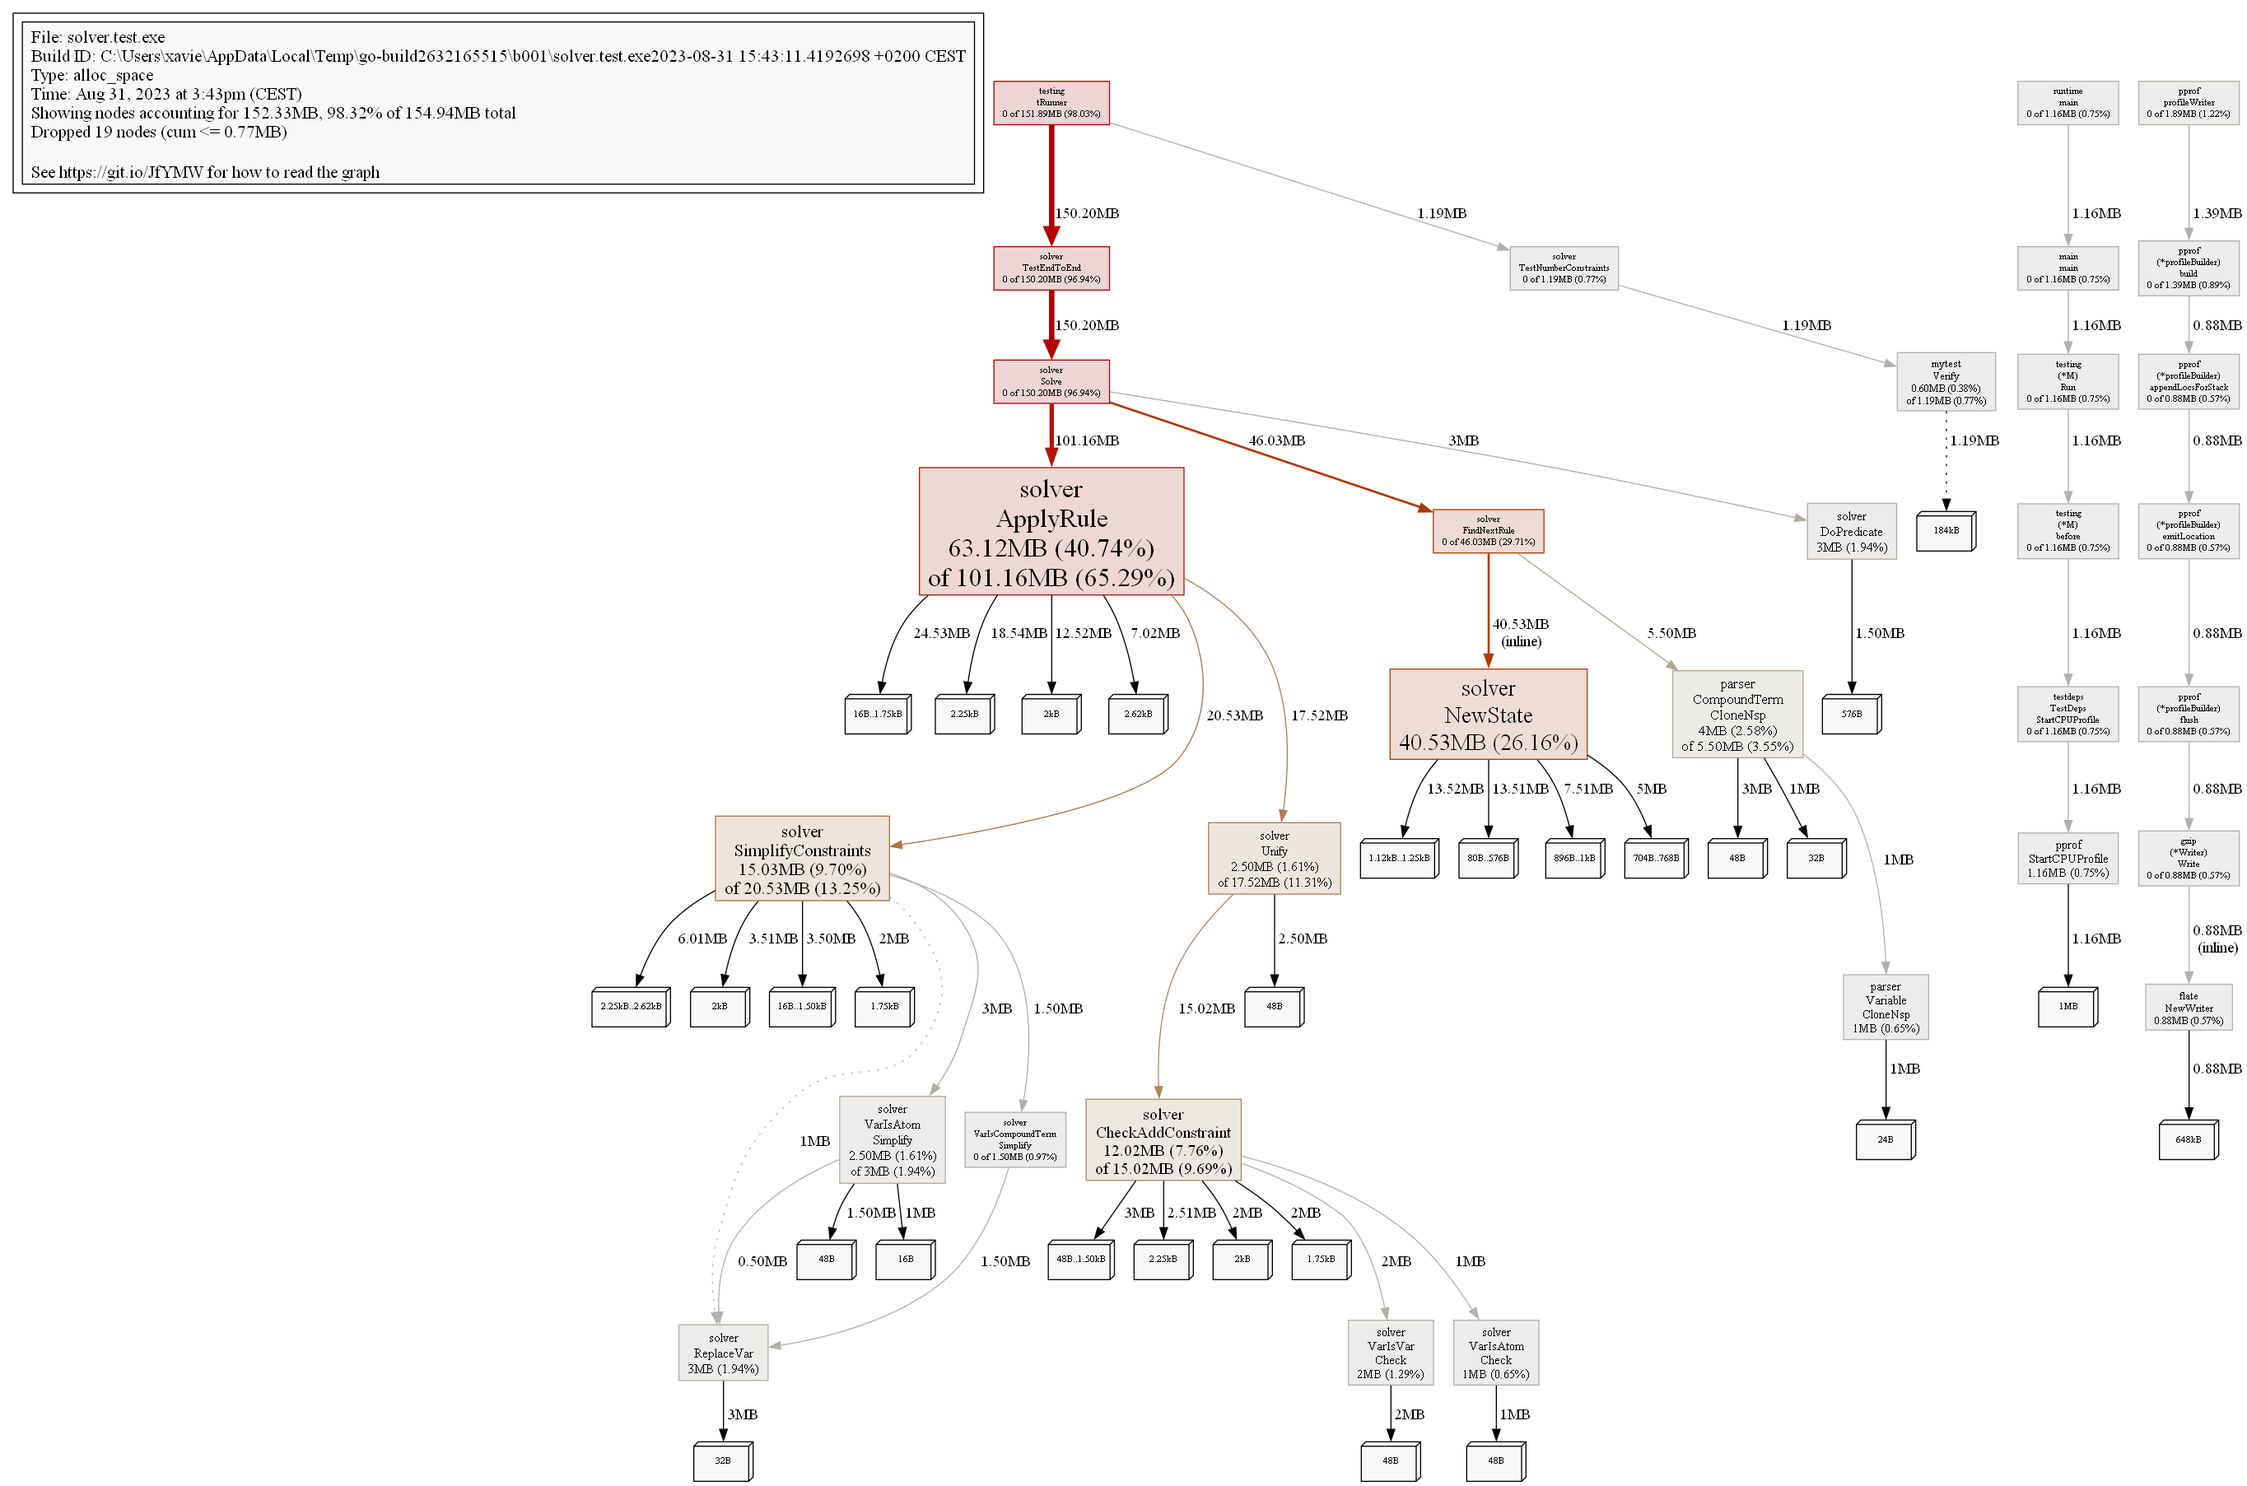
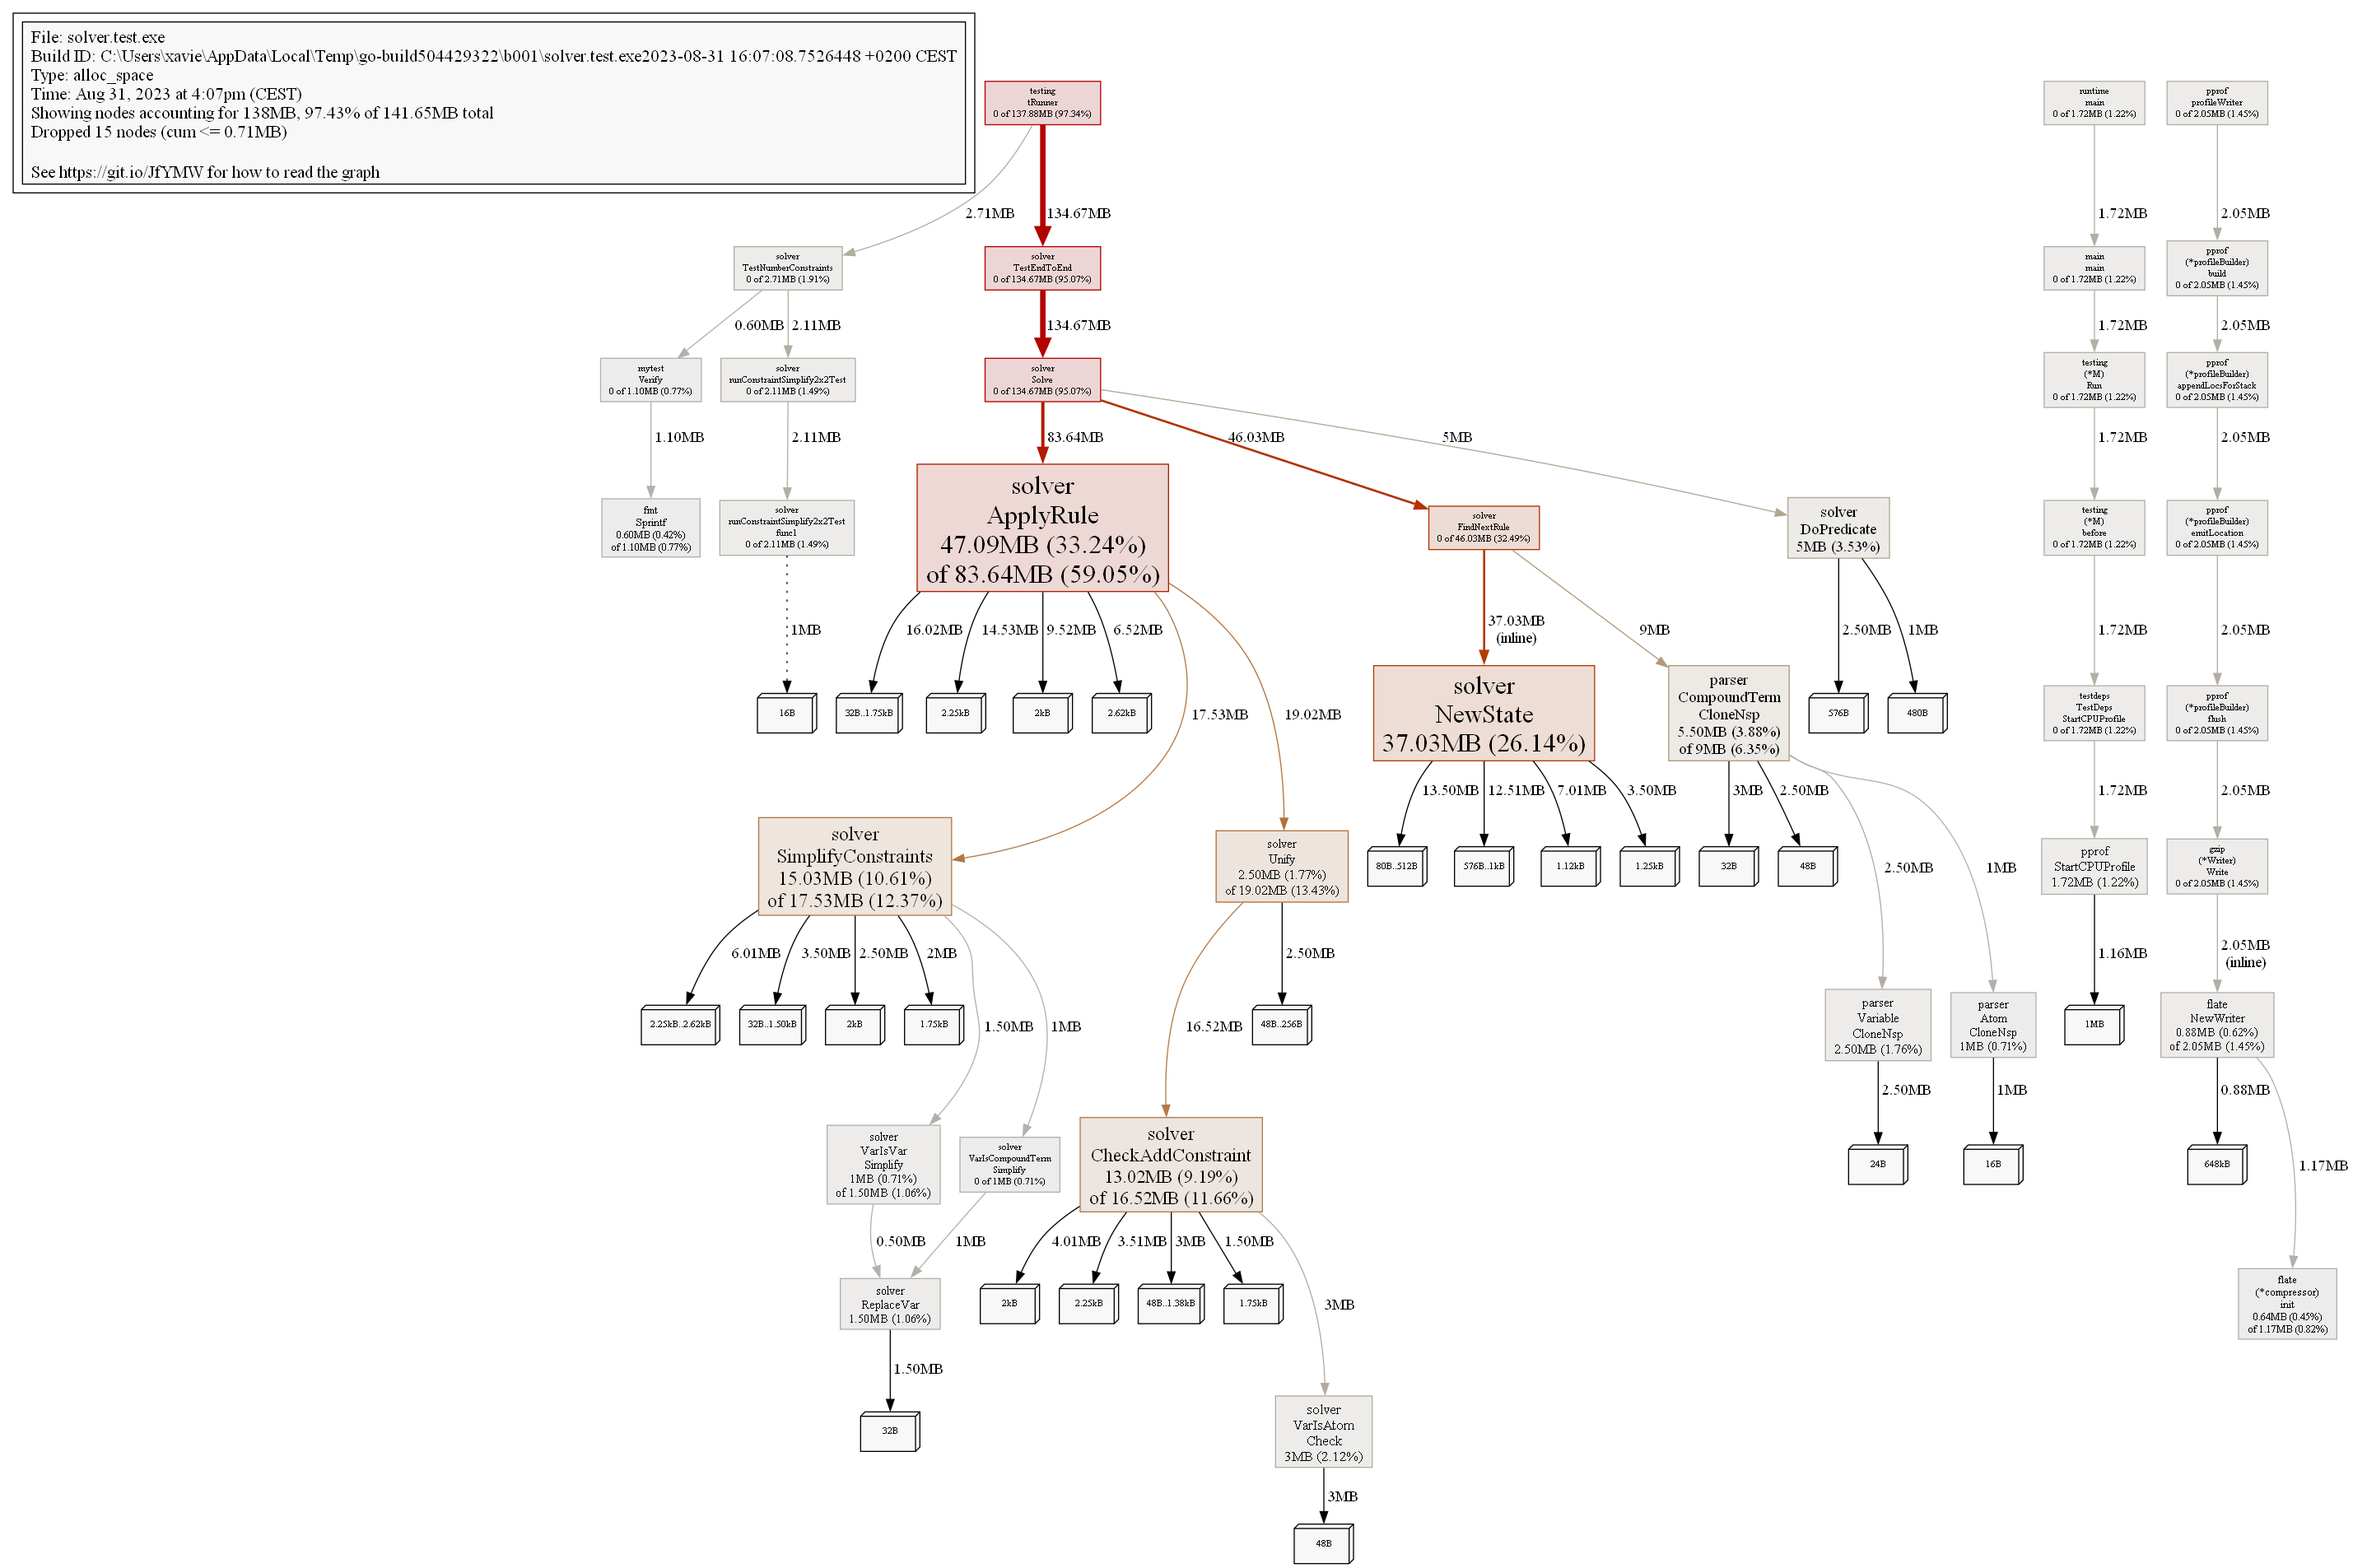
more efficient depthControl

diff --git a/solver/depthControl.go b/solver/depthControl.go
@@ -8,18 +8,28 @@ import (
 
 const MIN_DEPTH = 30 // minimum depth control for state/uids
 
-// Check if maxdepth is reached.
+var (
+	depthStats      int // count of truncated searches
+	ErrDepthControl = fmt.Errorf("maximum allowed nesting depth reached - truncating search tree")
+)
 
+// Check if maxdepth is reached.
 func (st State) CheckDepth() error {
 	// Prefer usuing this rather than doing a direct compare,
 	// since this will allow to detect too frequent hits and dynamically increase maxdepth if needed.
 
-	// naive heuristic, to be improved later...
 	md := MIN_DEPTH + st.Rules.Count()*3
 	if st.Uid >= md {
-		err := fmt.Errorf("reached max allowed depth (%d) - forcing backtracking", md)
-		fmt.Printf("%sWARNING : %v%s\n", mytest.CYAN, err, mytest.RESET)
-		return err
+		depthStats += 1
+		err := ErrDepthControl
+		if depthStats < 10 ||
+			(depthStats < 100 && depthStats%10 == 0) ||
+			(depthStats < 1000 && depthStats%100 == 0) ||
+			(depthStats < 10000 && depthStats%1000 == 0) { // limit volume and frequency of information displayed !
+			err = fmt.Errorf("reached max allowed depth (%d) - forcing backtracking (%d times)", md, depthStats)
+			fmt.Printf("%sWARNING : %v%s\n", mytest.CYAN, err, mytest.RESET)
+		}
+		return err // in large volume, don't spend CPU to refpormat an error each time !
 	}
 	return nil
 }
